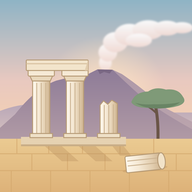
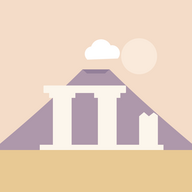
Icono minimalista
Claude-Session: https://claude.ai/code/session_01LtWP8QxY6Z5R8sUG3S8iDs

diff --git a/index.html b/index.html
@@ -9,7 +9,7 @@
 <meta name="apple-mobile-web-app-title" content="Viatge">
 <meta name="theme-color" content="#F3E9DE">
 <meta name="robots" content="noindex,nofollow">
-<link rel="apple-touch-icon" sizes="180x180" href="icon-180.png?v=3">
+<link rel="apple-touch-icon" sizes="180x180" href="icon-180.png?v=4">
 <link rel="icon" type="image/png" href="icon-192.png">
 <link rel="manifest" href="manifest.webmanifest">
 <style>
